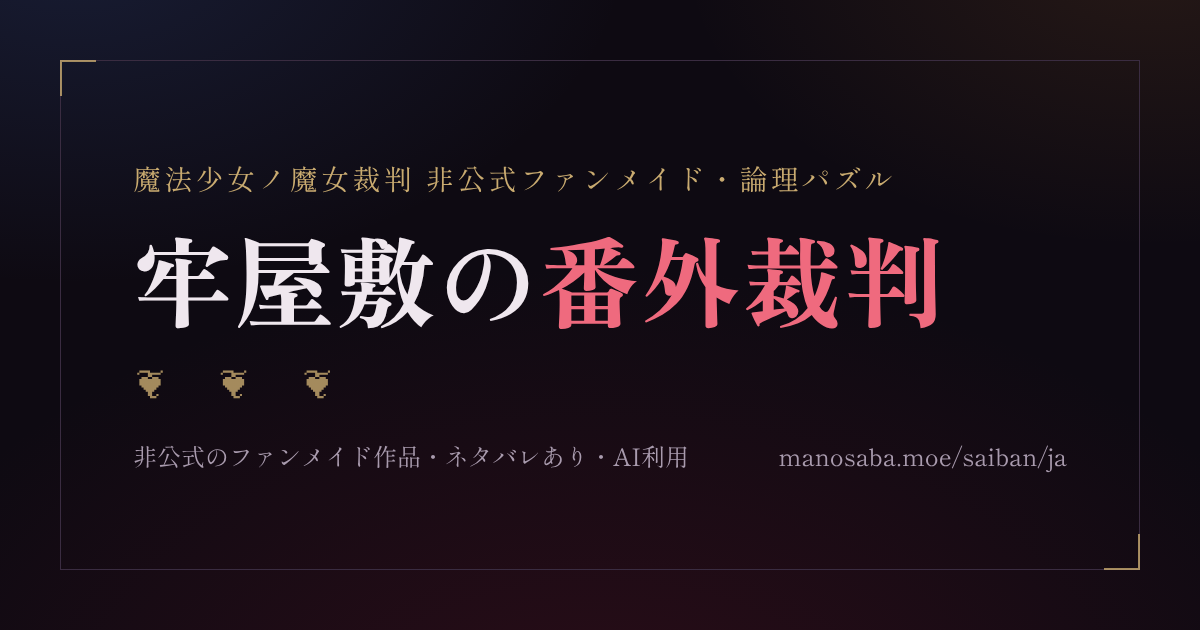
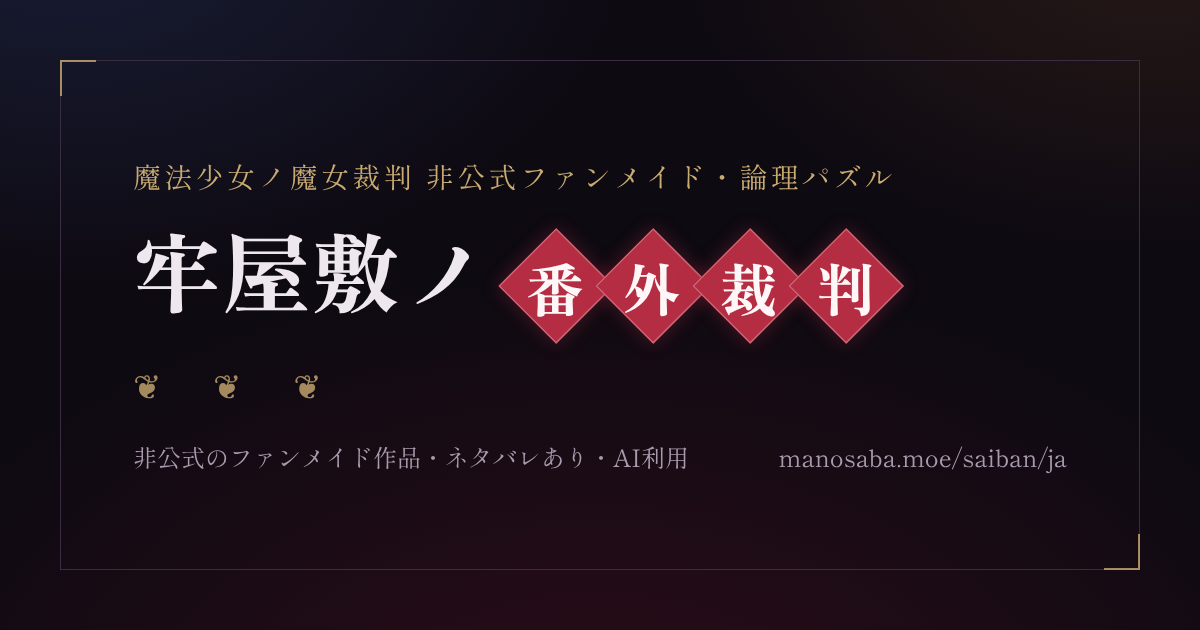
제목 로고 붉은 마름모, 일본어 제목 牢屋敷ノ番外裁判, 나노카 말투

diff --git a/saiban/lang/ja.js b/saiban/lang/ja.js
@@ -1,4 +1,4 @@
-// 「牢屋敷の番外裁判」日本語パック(일본어 팩). 한국어 팩(lang/ko.js)과 같은 모양(decorate, ui, incidentText)이다.
+// 「牢屋敷ノ番外裁判」日本語パック(일본어 팩). 한국어 팩(lang/ko.js)과 같은 모양(decorate, ui, incidentText)이다.
 // 퍼즐은 두 언어가 같다(논리만 puzzles.js 에서 공유). 일본어 자료(이름·말투·사건·마법 문구)와 문법은 전부 이 파일 안에 있다.
 // 캐릭터 대사(히로·피해자·말투 견본)는 사용자가 쓴 것(docs/ja-lines.md, Claude 교정 포함), 화면 문구·규칙·해설은 Claude.
 // 말투는 견본 6줄(① 누가 했다 ② 나는 안 했다 ③ 범인은 ④ 누구의 말은 틀렸다 ⑤ 내가 진짜 ⑥ 누구는 거짓말쟁이)을 그대로 내도록 만들었다.
@@ -25,7 +25,7 @@
   const MOTTE = { ta: "持っていった", te: "持っていって", masu: "持っていき", rta: "持ってった", rte: "持ってって", nakatta: "持っていかなかった" };
   const INCIDENTS = {
     sweets: { text: "ナノカが|作っておいた|お菓子が、|跡形もなく|消えた。", ta: "食べた", te: "食べて", masu: "食べ", rta: "食った", rte: "食って", rmasu: "食い", kana: "たべてない", nakatta: "食べなかった",
-      line: "…私が作ったお菓子を食べたのは誰だ？早く出てきなさいよ。" },
+      line: "…私が作ったお菓子を食べたのは誰？早く出てきなさいよ。" },
     pot: { text: "シェリーが|大切に|している|植木鉢が、|ひっくり返されていた。", ta: "ひっくり返した", te: "ひっくり返して", masu: "ひっくり返し", nakatta: "ひっくり返さなかった",
       line: "事件です！これは名探偵シェリーちゃんへの挑戦状です！" },
     sketch: { text: "ノアの|スケッチブックに、|誰かが|落書きを|した。", ta: "落書きした", te: "落書きして", masu: "落書きし", nakatta: "落書きしなかった",
@@ -51,7 +51,7 @@
     letter: { text: "エマが|みんなに|渡そうと|書いた|手紙が、|くしゃくしゃに|なっていた。", ta: "くしゃくしゃにした", te: "くしゃくしゃにして", masu: "くしゃくしゃにし", nakatta: "くしゃくしゃにしなかった",
       line: "ううっ、みんなのために書いた手紙なのに！誰がくしゃくしゃにしたの？ボ、ボク…嫌われるようなことはしてないと思ってたのに…しくしく" },
     goggles: { text: "ナノカの|ゴーグルに、|指の|跡が|べったり|ついていた。", ta: "触った", te: "触って", masu: "触り", nakatta: "触らなかった",
-      line: "…ゴーグルについたこの汚れはなんだ？誰も勝手に触るなと言ったはずなのに。触った犯人が黒幕に違いない。" },
+      line: "…ゴーグルについたこの汚れは何？誰も勝手に触らないでって言ったはずよ。触った犯人が黒幕に違いないわ。" },
     headphones: { text: "ココの|ヘッドホンの|コードが、|ぐちゃぐちゃに|絡まっていた。", ta: "絡ませた", te: "絡ませて", masu: "絡ませ", nakatta: "絡ませなかった",
       line: "誰？あてぃしのヘッドホンのコード絡ませたやつ！さっさと自首しなよ！" },
     magnifier: { text: "シェリーの|虫眼鏡が|消えた。", ...MOTTE,
@@ -154,8 +154,9 @@
     margo: { self: "私", call: "ちゃん", reg: "casual", meta: "の言ってること、", v: "わよ♡", n: "よ♡", nk: { role_is: "ね♡" },
              pre: { accuse: "あら、", deny_self: "フフッ、", meta_false: "フフッ、", meta_true: "フフッ、", self_or: "フフッ、" },
              syllables: true, swapDeny: "あら、本物のマーゴはこっちよ♡" },
-    nanoka: { self: "私", call: "full", reg: "casual", over: { right: ["正しい", "v"] }, meta: "の言葉は", v: "。", n: "だ。",
-              omae: true, swapDeny: "私が本物のナノカだ。" },
+    // 2026-10-26 일본인 플레이어 지적: 나노카는 여성 말투(「〜よ」·「〜だわ」). 남성적인 「〜だ」·「お前」를 「〜わ」·「〜よ」·「あなた」로
+    nanoka: { self: "私", call: "full", reg: "casual", over: { right: ["正しい", "v"] }, meta: "の言葉は", v: "わ。", n: "よ。",
+              you: "あなた", swapDeny: "私が本物のナノカよ。" },
     arisa: { self: "ウチ", call: "surname", reg: "rough", meta: "の言ってることは", v: "。", n: "だ。",
              vk: { accuse: "ぞ。" }, nk: { role_is: "だ！" },
              nick: { miria: "おっさん", sherry: "ハエ女" }, tag: { accuse: "のやつ" },
@@ -217,7 +218,7 @@
         core = v.inverted ? `${nm(a0)}${tag}ですね、${inc.ta}のは！` : `${nm(a0)}${tag}が${R.did(inc)}${vE}`;
         break;
       case "culprit_is":
-        core = v.omae ? `犯人は${nm(a0)}、お前${nE}` : v.hesitant ? `犯人は…${nm(a0)}、${nE}` : `犯人は${nm(a0)}${nE}`;
+        core = v.you ? `犯人は${nm(a0)}、${v.you}${nE}` : v.hesitant ? `犯人は…${nm(a0)}、${nE}` : `犯人は${nm(a0)}${nE}`;
         break;
       case "deny": core = `${nm(a0)}は${R.neg(inc)}${vE}`; break;
       case "deny_self":
@@ -238,7 +239,7 @@
         if (voice === x && v.swapDeny) { core = v.swapDeny; whole = true; }
         else core = `${v.self}が本物の${NAMES[x]}${nE}`;
         break;
-      case "role_is": core = v.omae ? `${nm(a0)}、お前は${ROLES[a1]}${nE}` : `${nm(a0)}は${ROLES[a1]}${nE}`; break;
+      case "role_is": core = v.you ? `${nm(a0)}、${v.you}は${ROLES[a1]}${nE}` : `${nm(a0)}は${ROLES[a1]}${nE}`; break;
       case "culprit_role": core = `犯人は${ROLES[a0]}${nE}`; break;
       case "count_is": core = a1 === 0 ? `${ROLES[a0]}は${R.none}${vE}` : `${ROLES[a0]}は${NUMS[a1]}${nE}`; break;
       case "vision": core = `幻視で${R.saw}${stop(vE)}犯人は${args.map(nm).join("、")}のうちの誰か${nE}`; break;
@@ -475,9 +476,9 @@
   const VH_BAR = "「とてもむずかしい」では、犯人と一緒にすべてのカードに役割（真・偽・気まぐれ屋）の印をつけないと、判決ボタンが押せない。犯人が合っていても、役割が一つでも間違っていれば間違った判決になり、ヒロはその日の朝に戻る。";
   const ui = {
     lang: "ja",
-    title: "牢屋敷の番外裁判",
+    title: "牢屋敷ノ番外裁判",
     eyebrow: "魔法少女ノ魔女裁判 非公式ファンメイド・論理パズル",
-    titleParts: ["牢屋敷の", "番外裁判"],
+    titleParts: ["牢屋敷ノ", "番外裁判"],     // 2026-10-26 사용자: 「の」 → 「ノ」, 뒷부분은 글자마다 붉은 마름모
     intro: "牢屋敷で「正しくない」事件が起きている。それを正すのは私、二階堂ヒロだ。少女たちの証言のうち、いくつかは嘘だ。すべての証言が矛盾なく成り立つ場合は、ただ一つ。その場合の犯人を捜し出し、判決を下そう。",     // 사용자 문장
     noticeHtml: [
       "<b>非公式のファンメイド作品</b>です。公式の画像・音声・テキストは使っておらず、事件と台詞は原作の台詞を写さずに新しく書きました。",
@@ -533,7 +534,7 @@
     shareCopied: "結果をコピーした",
     shareLabel: (q, index, date) => q.seed !== undefined ? `ランダム裁判 ${ui.randomCode(q.tier, q.seed)}`
       : date ? `今日の裁判 ${ui.dateLabel(date)}（${TIER[q.tier]}）` : numbered(q.tier, index),
-    shareText: (label, hints, wrongs, time) => `牢屋敷の番外裁判・${label}\n`
+    shareText: (label, hints, wrongs, time) => `牢屋敷ノ番外裁判・${label}\n`
       + (hints ? `ヒント${hints}個` : "ヒントなし") + "、"
       + (wrongs ? `誤審${wrongs}回の末に` : "")
       + `${time}で解きました！`,
@@ -589,6 +590,8 @@
     updatesNew: "新しいお知らせあり",
     updates: [
       { date: "2026-10-26", items: [
+        ["画面", "タイトルを「牢屋敷ノ番外裁判」にして、ロゴを赤いひし形のデザインに変えました。"],
+        ["修正", "黒部ナノカの口調を女性の口調（「〜わ」「〜よ」「あなた」）に直しました。ご指摘ありがとうございました。"],
         ["修正", "「城ケ崎ノア」の表記の誤り（「城ヶ崎」になっていました）と、ヒロの二人称（「君」）を直しました。ご指摘ありがとうございました。"],
         ["修正", "仮定表の列の幅を名前の長さに関係なくそろえ、マスを押してもマスの大きさや行の高さが変わらないようにしました。"],
       ] },

diff --git a/saiban/ja/index.html b/saiban/ja/index.html
@@ -8,18 +8,18 @@
 <meta property="og:type" content="website">
 <meta property="og:site_name" content="manosaba.moe">
 <meta property="og:locale" content="ja_JP">
-<meta property="og:title" content="牢屋敷の番外裁判">
+<meta property="og:title" content="牢屋敷ノ番外裁判">
 <meta property="og:description" content="『魔法少女ノ魔女裁判』の非公式ファンメイド論理パズル。嘘の中から犯人を見つけ出す。非公式のファンメイド作品・ネタバレあり・AI利用">
 <meta property="og:url" content="https://manosaba.moe/saiban/ja/">
 <meta property="og:image" content="https://manosaba.moe/saiban/og-ja.png">
 <meta property="og:image:width" content="1200">
 <meta property="og:image:height" content="630">
-<meta property="og:image:alt" content="牢屋敷の番外裁判 — 非公式のファンメイド作品・ネタバレあり・AI利用">
+<meta property="og:image:alt" content="牢屋敷ノ番外裁判 — 非公式のファンメイド作品・ネタバレあり・AI利用">
 <meta name="twitter:card" content="summary_large_image">
 <link rel="alternate" hreflang="ko" href="https://manosaba.moe/saiban/">
 <link rel="alternate" hreflang="ja" href="https://manosaba.moe/saiban/ja/">
 <script>window.TRIAL_LANG = "ja"; window.TRIAL_PAGES = {ko: "../", ja: "./"};</script>
-<title>牢屋敷の番外裁判</title>
+<title>牢屋敷ノ番外裁判</title>
 <meta name="claude:viewport-fit-sides" content="cover">
 <meta name="description" content="『魔法少女ノ魔女裁判』の非公式ファンメイド論理パズル。嘘の中から犯人を見つけ出す。">
 <link rel="preconnect" href="https://fonts.googleapis.com">
@@ -120,7 +120,15 @@ a { color: var(--blood-ink); }
 .langs a:hover { color: var(--ink); }
 .langs [aria-current] { color: var(--ink); }
 .masthead h1 { font-size: clamp(38px, 9vw, 64px); line-height: 1.1; letter-spacing: .02em; }
-.masthead h1 .mark { color: var(--blood-ink); }
+/* 제목 로고(2026-10-26 사용자 「빨간 다이아몬드 안에 들어가는 흰색 글씨」, 시안 A): 뒷부분을 글자마다 붉은 마름모에.
+   공식 로고(흑백 붓글씨)와는 다른 자작 디자인 */
+.masthead h1 .t1 { white-space: nowrap; }        /* 좁은 화면에서 「감옥저택 / 의」처럼 끊기지 않게 */
+.masthead h1 .dias { display: inline-flex; vertical-align: middle; margin-left: .08em; white-space: nowrap; }
+.masthead h1 .dia { position: relative; display: inline-grid; place-items: center; width: 1.32em; height: 1.32em; }
+.masthead h1 .dia + .dia { margin-left: -.22em; }       /* 이웃한 마름모끼리만 겹친다(바깥으로 넘치지 않게) */
+.masthead h1 .dia::before { content: ""; position: absolute; inset: 14.6%; background: var(--blood); transform: rotate(45deg);
+  box-shadow: inset 0 0 0 1.5px rgba(255, 255, 255, .28), 0 0 18px rgba(181, 45, 67, .35); }
+.masthead h1 .dia span { position: relative; color: #fff6f7; font-size: .66em; line-height: 1; }
 .fleuron { color: var(--brass); font-size: 18px; letter-spacing: .6em; opacity: .8; }
 .masthead p { margin: 0; color: var(--muted); max-width: 36em; }
 .notice { padding: 14px 18px; font-size: 14px; color: var(--muted); display: grid; gap: 2px; }
@@ -394,10 +402,10 @@ footer { color: var(--muted); font-size: 13px; display: grid; gap: 2px; border-t
 
 <div class="wrap" id="app"></div>
 
-<script src="../puzzles.js?v=79ad55dc8e"></script>
-<script src="../core.js?v=79ad55dc8e"></script>
-<script src="../lang/ko.js?v=79ad55dc8e"></script>
-<script src="../lang/ja.js?v=79ad55dc8e"></script>
+<script src="../puzzles.js?v=682239e336"></script>
+<script src="../core.js?v=682239e336"></script>
+<script src="../lang/ko.js?v=682239e336"></script>
+<script src="../lang/ja.js?v=682239e336"></script>
 <script>
 (function () {
   "use strict";
@@ -586,7 +594,7 @@ footer { color: var(--muted); font-size: 13px; display: grid; gap: 2px; border-t
     return `
       <header class="masthead" data-part="masthead">
         <div class="top"><div class="eyebrow">${esc(T.eyebrow)}</div>${langLinks()}</div>
-        <h1>${esc(T.titleParts[0])}<span class="mark">${esc(T.titleParts[1])}</span></h1>
+        <h1 aria-label="${esc(T.title)}"><span aria-hidden="true"><span class="t1">${esc(T.titleParts[0].trimEnd())}</span>${T.titleParts[0].endsWith(" ") ? " " : ""}<span class="dias">${[...T.titleParts[1]].map((ch) => `<span class="dia"><span>${esc(ch)}</span></span>`).join("")}</span></span></h1>
         <div class="fleuron" aria-hidden="true">❦ ❦ ❦</div>
         <p>${esc(T.intro)}</p>
       </header>

diff --git a/saiban/index.html b/saiban/index.html
@@ -120,7 +120,15 @@ a { color: var(--blood-ink); }
 .langs a:hover { color: var(--ink); }
 .langs [aria-current] { color: var(--ink); }
 .masthead h1 { font-size: clamp(38px, 9vw, 64px); line-height: 1.1; letter-spacing: .02em; }
-.masthead h1 .mark { color: var(--blood-ink); }
+/* 제목 로고(2026-10-26 사용자 「빨간 다이아몬드 안에 들어가는 흰색 글씨」, 시안 A): 뒷부분을 글자마다 붉은 마름모에.
+   공식 로고(흑백 붓글씨)와는 다른 자작 디자인 */
+.masthead h1 .t1 { white-space: nowrap; }        /* 좁은 화면에서 「감옥저택 / 의」처럼 끊기지 않게 */
+.masthead h1 .dias { display: inline-flex; vertical-align: middle; margin-left: .08em; white-space: nowrap; }
+.masthead h1 .dia { position: relative; display: inline-grid; place-items: center; width: 1.32em; height: 1.32em; }
+.masthead h1 .dia + .dia { margin-left: -.22em; }       /* 이웃한 마름모끼리만 겹친다(바깥으로 넘치지 않게) */
+.masthead h1 .dia::before { content: ""; position: absolute; inset: 14.6%; background: var(--blood); transform: rotate(45deg);
+  box-shadow: inset 0 0 0 1.5px rgba(255, 255, 255, .28), 0 0 18px rgba(181, 45, 67, .35); }
+.masthead h1 .dia span { position: relative; color: #fff6f7; font-size: .66em; line-height: 1; }
 .fleuron { color: var(--brass); font-size: 18px; letter-spacing: .6em; opacity: .8; }
 .masthead p { margin: 0; color: var(--muted); max-width: 36em; }
 .notice { padding: 14px 18px; font-size: 14px; color: var(--muted); display: grid; gap: 2px; }
@@ -394,10 +402,10 @@ footer { color: var(--muted); font-size: 13px; display: grid; gap: 2px; border-t
 
 <div class="wrap" id="app"></div>
 
-<script src="puzzles.js?v=79ad55dc8e"></script>
-<script src="core.js?v=79ad55dc8e"></script>
-<script src="lang/ko.js?v=79ad55dc8e"></script>
-<script src="lang/ja.js?v=79ad55dc8e"></script>
+<script src="puzzles.js?v=682239e336"></script>
+<script src="core.js?v=682239e336"></script>
+<script src="lang/ko.js?v=682239e336"></script>
+<script src="lang/ja.js?v=682239e336"></script>
 <script>
 (function () {
   "use strict";
@@ -586,7 +594,7 @@ footer { color: var(--muted); font-size: 13px; display: grid; gap: 2px; border-t
     return `
       <header class="masthead" data-part="masthead">
         <div class="top"><div class="eyebrow">${esc(T.eyebrow)}</div>${langLinks()}</div>
-        <h1>${esc(T.titleParts[0])}<span class="mark">${esc(T.titleParts[1])}</span></h1>
+        <h1 aria-label="${esc(T.title)}"><span aria-hidden="true"><span class="t1">${esc(T.titleParts[0].trimEnd())}</span>${T.titleParts[0].endsWith(" ") ? " " : ""}<span class="dias">${[...T.titleParts[1]].map((ch) => `<span class="dia"><span>${esc(ch)}</span></span>`).join("")}</span></span></h1>
         <div class="fleuron" aria-hidden="true">❦ ❦ ❦</div>
         <p>${esc(T.intro)}</p>
       </header>

diff --git a/index.html b/index.html
@@ -39,7 +39,7 @@ footer{margin-top:20px;color:var(--dim);font-size:.82rem}
 <nav>
 <a href="https://manosaba.com/">공식 사이트 <small>manosaba.com</small></a>
 <a href="saiban/">감옥저택의 번외재판 <small>팬메이드 논리 퍼즐 · 非公式のファンメイド作品・ネタバレあり・AI利用</small></a>
-<a href="saiban/ja/" lang="ja">牢屋敷の番外裁判 <small>日本語版・ファンメイド論理パズル · 非公式のファンメイド作品・ネタバレあり・AI利用</small></a>
+<a href="saiban/ja/" lang="ja">牢屋敷ノ番外裁判 <small>日本語版・ファンメイド論理パズル · 非公式のファンメイド作品・ネタバレあり・AI利用</small></a>
 </nav>
 <footer>원작의 권리는 원작자(Acacia, 合同会社Re,AER)에게 있습니다.<br>
 문의·삭제 요청: 트위터(현 X) <a href="https://x.com/riyuna_mano" target="_blank" rel="noopener">@riyuna_mano</a><br>

diff --git a/saiban/lang/ko.js b/saiban/lang/ko.js
@@ -448,6 +448,7 @@
     updatesNew: "새 소식 있음",
     updates: [
       { date: "2026-10-26", items: [
+        ["화면", "제목 로고를 붉은 마름모 모양으로 바꿨습니다."],
         ["수정", "가정 표의 열 폭을 이름 길이와 상관없이 고르게 맞추고, 칸을 눌러도 칸 크기와 줄 높이가 바뀌지 않게 했습니다."],
       ] },
       { date: "2026-10-25", items: [

diff --git a/README.md b/README.md
@@ -11,6 +11,6 @@
 - 아이폰(Safari)에서는 직접 확인하지 못해 화면이 어긋날 수 있습니다.
 - 문의·삭제 요청: 트위터(현 X) [@riyuna_mano](https://x.com/riyuna_mano)
 - 버그·오류 제보: [구글 폼](https://docs.google.com/forms/d/e/1FAIpQLSfksd0WrbKXEQB5IDFbvhnLRXxqHTqkOAtlBJHm5E3ZxQZv4g/viewform)
-- 日本語版「牢屋敷の番外裁判」: https://manosaba.moe/saiban/ja/ （非公式のファンメイド作品・ネタバレあり・AI利用。キャラクターの台詞は作者が書き、ルール・解説などの文章の翻訳にはAIを一部使っております）
+- 日本語版「牢屋敷ノ番外裁判」: https://manosaba.moe/saiban/ja/ （非公式のファンメイド作品・ネタバレあり・AI利用。キャラクターの台詞は作者が書き、ルール・解説などの文章の翻訳にはAIを一部使っております）
 
 이 저장소에는 빌드된 파일만 있습니다. 생성기·검산 도구의 원본은 따로 관리합니다.
